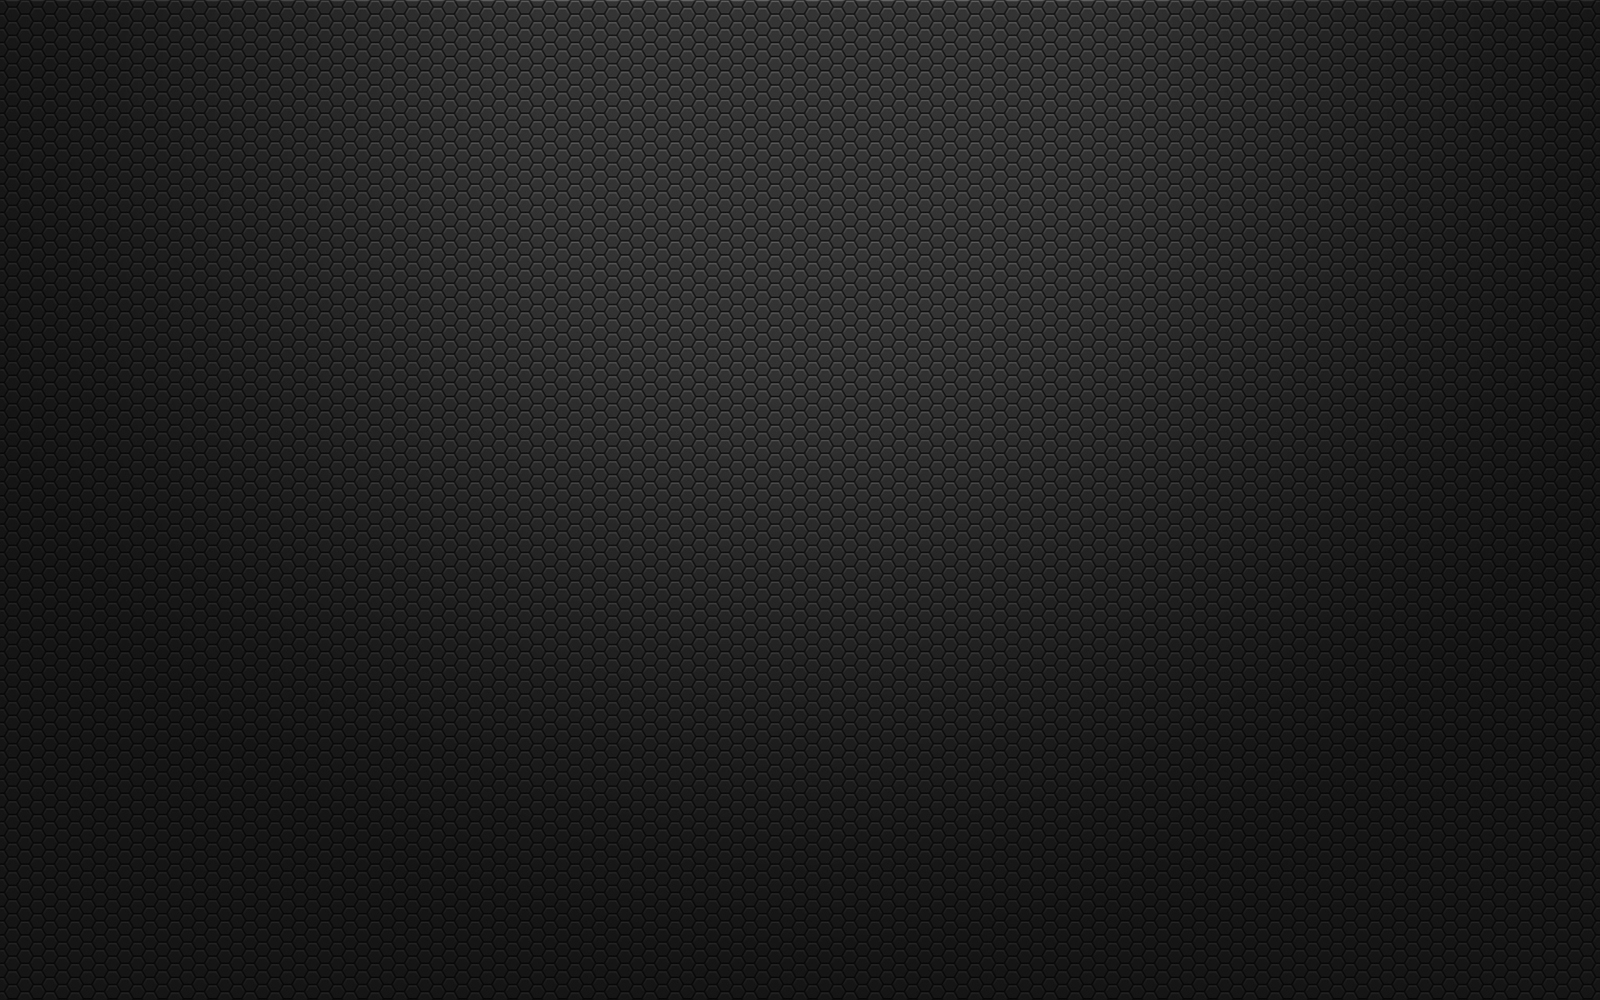
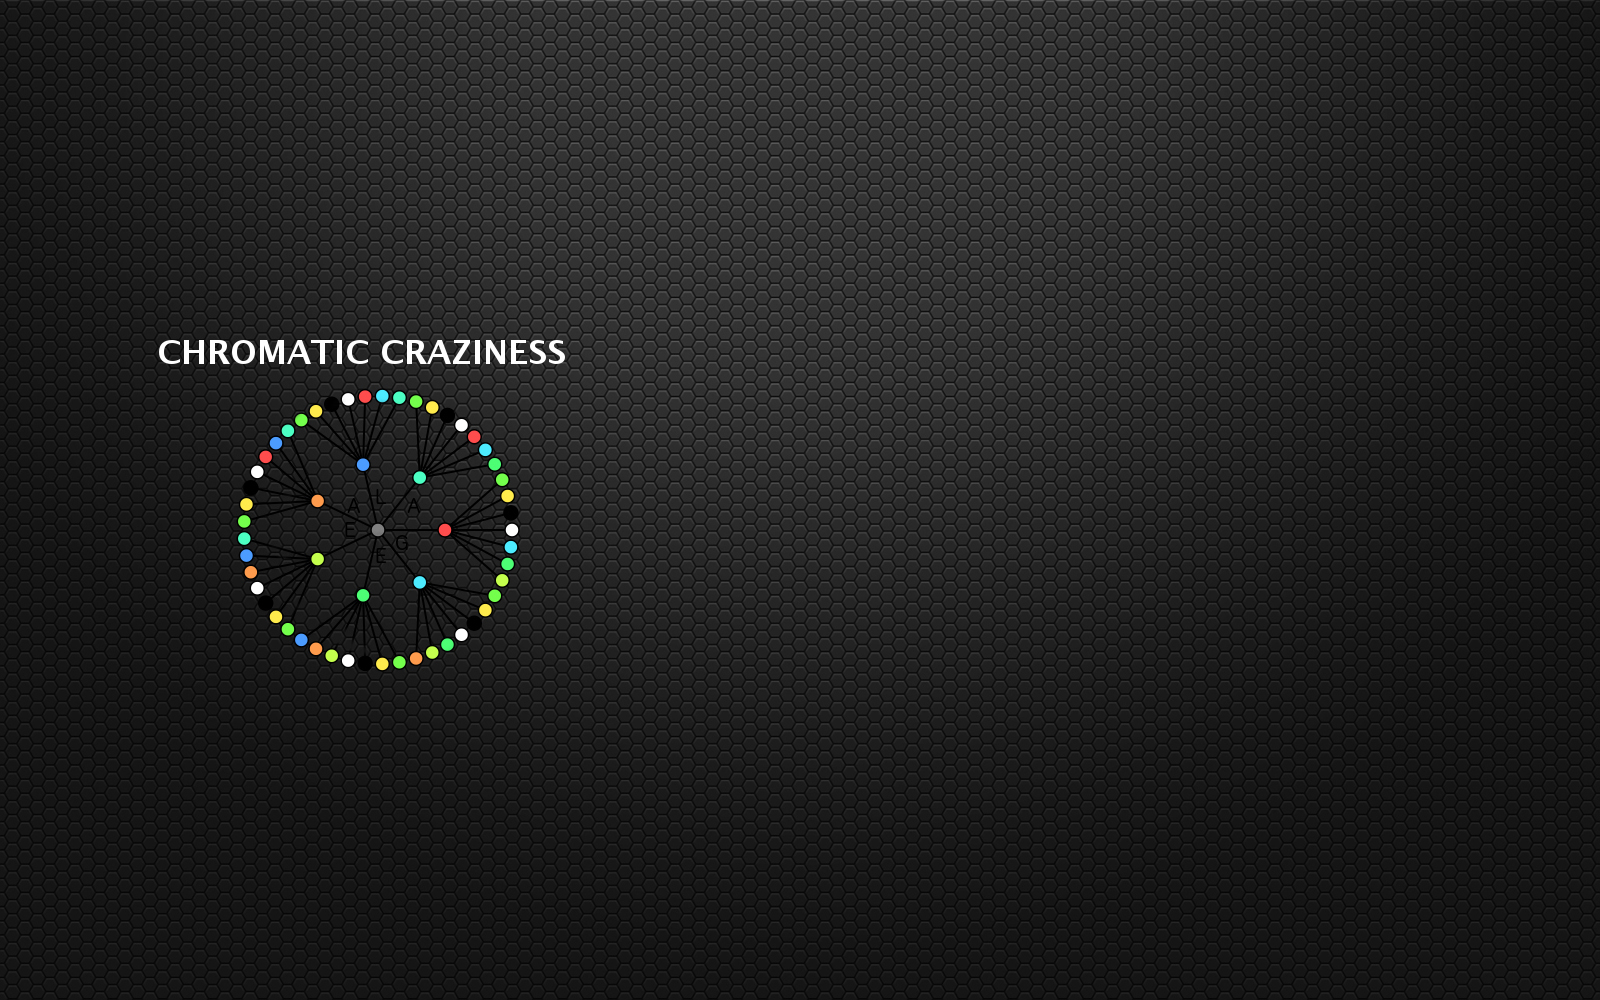
menu workings
added images and some buttons

Changed region(s): [[0.0938, 0.341, 0.375, 0.682], [0.125, 0.496, 0.1562, 0.558]]

diff --git a/Source/Game/Component2.java b/Source/Game/Component2.java
@@ -1,3 +1,4 @@
+
 import javax.swing.*;
 import java.awt.*;
 import java.util.*;
@@ -8,10 +9,95 @@ extends JComponent
 
 public void paintComponent(Graphics g)
 {
-  g.setColor(Color.BLACK);
-  g.setFont(new Font("TimesRoman", Font.PLAIN, 70));
-  g.drawString("TEST",15  0,50);
+  int[][] coords = new int[20][2];
 
+
+    coords[0][1] = 20;
+    coords[1][1] = 50;
+    coords[2][1] = 95;
+    coords[3][1] = 190;
+    coords[4][1] = 300;
+    coords[5][1] = 370;
+    coords[6][1] = 480;
+    coords[7][1] = 565;
+    coords[8][1] = 620;
+    coords[9][1] = 650;
+    coords[10][1] = 650;
+    coords[11][1] = 620;
+    coords[12][1] = 565;
+    coords[13][1] = 480;
+    coords[14][1] = 370;
+    coords[15][1] = 300;
+    coords[16][1] = 190;
+    coords[17][1] = 95;
+    coords[18][1] = 50;
+    coords[19][1] = 20;
+
+    coords[0][0] = 370;
+    coords[1][0] = 480;
+    coords[2][0] = 570;
+    coords[3][0] = 620;
+    coords[4][0] = 650;
+    coords[5][0] = 650;
+    coords[6][0] = 620;
+    coords[7][0] = 570;
+    coords[8][0] = 480;
+    coords[9][0] = 370;
+    coords[10][0] = 300;
+    coords[11][0] = 210;
+    coords[12][0] = 100;
+    coords[13][0] = 50;
+    coords[14][0] = 20;
+    coords[15][0] = 20;
+    coords[16][0] = 50;
+    coords[17][0] = 100;
+    coords[18][0] = 210;
+    coords[19][0] = 300;
+
+
+
+
+
+  g.setColor(Color.WHITE);
+  g.drawString("Chromatic Craziness",10,30);
+
+
+
+  //goes through the array and draws circles and lines on and between the coordinates respectively
+int counter = 0;
+  for (int i = 0; i < 20; i++)
+    {
+      int x = coords[counter][0];
+      int y = coords[counter][1];
+      counter++;
+
+      int counter2 = 0;
+      for(int k = 0; k < 20; k++)
+      {
+        int a = coords[counter2][0];
+        int b = coords[counter2][1];
+        counter2++;
+        g.setColor(Color.RED);
+        g.drawLine(x,y,a,b);
+      }
+      }
+
+
+      int n = 0;
+  for (int i = 0; i < 20; ++i)
+    {
+      int r = 25;
+      int x = coords[n][0];
+      int y = coords[n][1];
+      n++;
+      g.setColor(Color.BLACK);
+      g.drawOval(x-(r/2),y-(r/2),r,r);
+      g.setColor(Color.WHITE);
+      g.fillOval(x-(r/2),y-(r/2),r,r);
+      }
+      g.setColor(Color.WHITE);
+      //g.drawString("SUCH GRAPH",20,500);
+      //g.drawString("MUCH WOW",500,50);
 
 
 }

diff --git a/Source/Game/Menu.java b/Source/Game/Menu.java
@@ -24,19 +24,35 @@ public static void main(String[] args)
   Menu.setTitle("Chromatic Craziness 1.1");
   Menu.setDefaultCloseOperation(JFrame.EXIT_ON_CLOSE);
   JButton play = new JButton("PLAY");
-  JPanel panel2 = new JPanel();
+
   JButton settings = new JButton("Settings");
   play.setPreferredSize(new Dimension(100,50));
-  JPanel panel = new JPanel(new GridLayout());
-  panel.setMaximumSize(new Dimension(300,100));
+  JButton Highscores = new JButton("High scores");
+
+
+  try{
+  BufferedImage img = ImageIO.read(new File("background3.jpeg"));
+  ImageIcon icon = new ImageIcon(img);
+  JLabel contentPane = new JLabel();
+  contentPane.setIcon(icon);
+  contentPane.setLayout(new BorderLayout());
+  Menu.setContentPane(contentPane);
+} catch(IOException e) {e.printStackTrace();}
 
 
 
    Menu.add(play, BorderLayout.PAGE_START);
-   Menu.add(settings, BorderLayout.PAGE_END);
+  Menu.setTitle("Chromatic Craziness 1.1");
+  Menu.setDefaultCloseOperation(JFrame.EXIT_ON_CLOSE);
 
-  Menu.add(panel);
 
+  JPanel panel = new JPanel();
+      panel.setLayout(new GridLayout(2,2,1,1));
+      JButton component= new JButton("Component");
+
+      panel.add(settings);
+      panel.add(Highscores );
+      Menu.add(panel, BorderLayout.PAGE_END);
 
 
 
@@ -44,6 +60,8 @@ ActionListener listener = new ClickListener(); play.addActionListener(listener);
 
 
 Menu.setVisible(true);
+Menu.getContentPane().setBackground(Color.BLACK);
+Container c = Menu.getContentPane();
  }
 
 

diff --git a/Source/Game/ClickListener.java b/Source/Game/ClickListener.java
@@ -23,9 +23,20 @@ public void actionPerformed(ActionEvent event) {
   frame.setTitle("Chromatic Craziness 1.1");
   frame.setDefaultCloseOperation(JFrame.EXIT_ON_CLOSE);
   Component2 component2 = new Component2();
+
+  try{
+  BufferedImage img = ImageIO.read(new File("background3.jpeg"));
+  ImageIcon icon = new ImageIcon(img);
+  JLabel contentPane = new JLabel();
+  contentPane.setIcon(icon);
+  contentPane.setLayout(new BorderLayout());
+  frame.setContentPane(contentPane);
+  frame.getContentPane().setBackground(Color.BLACK);
+  Container c = frame.getContentPane();
+  contentPane.add(component2);
+  } catch(IOException e) {e.printStackTrace();}
+
     frame.add(component2);
-  frame.setVisible(true);
-
-
+    frame.setVisible(true);
 }
 }
